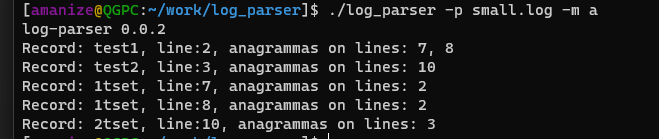
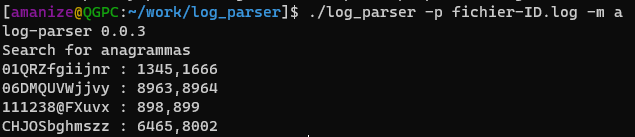
build 0.0.3

Changed region(s): [[0.0, 0.0292, 0.9874, 1.0], [0.4488, 0.9635, 0.5087, 1.0]]

diff --git a/internal/parser.go b/internal/parser.go
@@ -4,29 +4,22 @@ import (
 	"bufio"
 	"bytes"
 	"fmt"
+	"log-parser/arguments"
 	"os"
 	"sort"
+	"strings"
+
+	"golang.org/x/exp/slices"
 )
 
-type Predicate = func(templateText string, readedText string) bool
-
-// Tranformer for templates that will be added to already checked templates.
-// For example: anagrammas provides to templates for one string.
-// Source: asd, anagramma: dsa, checked templates: asd, dsa.
-type TemplateTransformer = func(templateText string) []string
-
-func parseFile(title string, path string, predicate Predicate, templateTransformer TemplateTransformer) error {
+func parseFile(mode string, path string) error {
 
 	var (
 		file           []byte
 		scannedText    []string
-		scannedRunes   [][]int
-		sortedRunes    [][]int
 		sortedText     []string
 		duplicates     []string
 		duplicateLines map[string][]int = make(map[string][]int)
-		anagrammas []string
-		anagrammasLines map[string][]int = make(map[string][]int)
 		err            error
 	)
 	if file, err = os.ReadFile(path); err != nil {
@@ -38,100 +31,64 @@ func parseFile(title string, path string, predicate Predicate, templateTransform
 		scannedText = append(scannedText, scanner.Text())
 	}
 	sortedText = make([]string, len(scannedText))
-
-	copy(sortedText, scannedText)
-
-	sort.Strings(sortedText)
-	duplicates = findAllDuplicates(sortedText)
-	for i, str := range scannedText {
-		for _, dpl := range duplicates {
-			if str == dpl {
-				duplicateLines[str] = append(duplicateLines[str], i)
-			}
-
-		}
+	if mode == arguments.Duplicates {
+		copy(sortedText, scannedText)
+		sort.Strings(sortedText)
+		duplicates = findAllDuplicates(sortedText)
+		fmt.Println("Search for duplicates")
+		duplicateLines = getDuplicateLines(scannedText, duplicates)
+		printResult(duplicateLines)
 	}
-
-	sortedBytes = make([][]int, len(scannedBytes))
-	copy(sortedBytes, scannedBytes)
-	sortInt(sortedBytes)
-	intDuplicate:=findAllDuplicates(sortedBytes)
-	fmt.Println(duplicateLines)
+	if mode == arguments.Anagrammas {
+		fmt.Println("Search for anagrammas")
+		anagrammas := findAllAnagrammas(scannedText)
+		printResult(anagrammas)
+	}
 	return nil
 }
 
-func btoi(b []byte) []int {
-	blen := len(b)
-	ints := make([]int, blen)
-	for i := 1; i < blen; i++ {
-		ints[blen-i] = int(b[i])
-	}
-	return ints
-}
-
-func itob(i []int) []byte{
-	ilen:= len(i)
-	bytes := make([]byte, ilen)
-	for b:=1; b<ilen; b++{
-		bytes[ilen-b] = byte(i[])
-	}
-
-}
-
-func sortInt(ints [][]int) {
-	for _, i := range ints {
-		sort.Ints(i)
+func printResult(result map[string][]int) {
+	for keys, group := range result {
+		if len(group) > 1 {
+			fmt.Println(keys, ":", arrayToString(group, ","))
+		}
 	}
 }
 
-func findAllDuplicates[T comparable](sortedFile []T) []T {
-	duplicates := make([]T, 0)
-	for i, srt := range sortedFile {
-		if i+1 >= len(sortedFile) {
+func getDuplicateLines(scannedText []string, duplicates []string) map[string][]int {
+	duplicateLines := make(map[string][]int)
+	for i, str := range scannedText {
+		if slices.Contains(duplicates, str) {
+			duplicateLines[str] = append(duplicateLines[str], i+1)
+		}
+	}
+	return duplicateLines
+}
+
+func findAllDuplicates(sortedText []string) []string {
+	result := make([]string, 0)
+	for i, srt := range sortedText {
+		if i+1 >= len(sortedText) {
 			break
 		}
-		if srt == sortedFile[i+1] {
-			duplicates = append(duplicates, srt)
+		if srt == sortedText[i+1] {
+			result = append(result, srt)
 		}
 	}
-	return duplicates
+	return removeDuplicate(result)
 }
 
+func findAllAnagrammas(sortedText []string) map[string][]int {
+	anagrams := make(map[string][]int)
+	for i, t := range sortedText {
+		sortedLine := sortString(t)
+		anagrams[sortedLine] = append(anagrams[sortedLine], i+1)
+	}
+	return anagrams
+}
 
-func Anagram(s string, t string) bool {
-	// initializing the variables
-	string1 := len(s)
-	string2 := len(t)
-	fmt.Println("Letter 1 =", s, "\nLetter 2 =", t)
-	fmt.Println("Is it an Anagram ?")
-	if string1 != string2 {
-	   return false
-	}
-	
-	// create and initialize a map anagramMap
-	// Using make () function
-	anagramMap := make(map[string]int)
-	
-	// As we already know that make() function
-	// always returns a map which is initialized
-	// Iterating map using for range loop
-	// Traverse the first string and increase the count of each character in the map
-	for i := 0; i < string1; i++ {
-	   anagramMap[string(s[i])]++
-	}
-	
-	// Traverse the second string and decrease the count of each character in the map
-	for i := 0; i < string2; i++ {
-	   anagramMap[string(t[i])]--
-	}
-	
-	// Traverse the first string again and if for any character the count
-	// is non-zero in the map then return false
-	for i := 0; i < string1; i++ {
-	   if anagramMap[string(s[i])] != 0 { // if this condition satisfies return false
-		  return false
-	   }
-	}
-	// In the end return true
-	return true
- }
+func sortString(str string) string {
+	s := strings.Split(str, "")
+	sort.Strings(s)
+	return strings.Join(s, "")
+}

diff --git a/internal/log_parser.go b/internal/log_parser.go
@@ -6,7 +6,7 @@ import (
 	"os"
 )
 
-const Version = "0.0.2"
+const Version = "0.0.3"
 
 func Start(args *arguments.Arguments) {
 	fmt.Println("log-parser", Version)
@@ -25,17 +25,14 @@ func Start(args *arguments.Arguments) {
 }
 
 func findDuplicates(path string) error {
-
-	if err := parseFile(duplicateMode, path, duplicatePredicate, duplicateTransformer); err != nil {
+	if err := parseFile(arguments.Duplicates, path); err != nil {
 		return fmt.Errorf("error reading file. Reason: %s", err)
-
 	}
 	return nil
 }
 
 func findAnagrammas(path string) error {
-
-	if err := parseFile(anagrammasMode, path, anagrammasPredicate, anagrammasTransformer); err != nil {
+	if err := parseFile(arguments.Anagrammas, path); err != nil {
 		return fmt.Errorf("error reading file. Reason: %s", err)
 	}
 	return nil

diff --git a/internal/tools.go b/internal/tools.go
@@ -1,14 +1,22 @@
 package internal
 
-const (
-	duplicateMode  = "duplicates"
-	anagrammasMode = "anagrammas"
+import (
+	"fmt"
+	"strings"
 )
 
-func reverseSwapRunes(s string) string {
-	chars := []rune(s)
-	for i, j := 0, len(chars)-1; i < j; i, j = i+1, j-1 {
-		chars[i], chars[j] = chars[j], chars[i]
+func removeDuplicate[T string | int](sliceList []T) []T {
+	allKeys := make(map[T]bool)
+	list := []T{}
+	for _, item := range sliceList {
+		if _, value := allKeys[item]; !value {
+			allKeys[item] = true
+			list = append(list, item)
+		}
 	}
-	return string(chars)
+	return list
+}
+
+func arrayToString(a []int, delim string) string {
+	return strings.Trim(strings.Replace(fmt.Sprint(a), " ", delim, -1), "[]")
 }

diff --git a/README.MD b/README.MD
@@ -4,6 +4,10 @@
 
 Simple log parser written on Go langugage that finds duplicates and anagrammas in logfile.
 
+### Used packages
+
+- [slices](https://pkg.go.dev/golang.org/x/exp@v0.0.0-20230725093048-515e97ebf090/slices)
+
 ## Requirements
 
 This app requires golang 1.20 to run or build.
@@ -57,20 +61,42 @@ Example output for duplicates mode:
 ![Duplicate output example](duplicate_example.png)
 
 Example output for anagrammas mode:
-![Anagrammas outour example](anagrammas_example.png)
+![Anagrammas output example](anagrammas_example.png)
+
+Example output for wrong arguments:
+![Wrong arguments output example](error_example.png)
 
 ## Overview
 
-In this realization log-parser use `bufio.Scanner` and `bufio.Scanner.Text()` to get template from file. It not fast but that is the most simple way to read file line-by-line.
-File reads like slice of bytes into memory by `os.ReadFile(path)`. That will cause great memory consumption when provided file is large. It can be replaced by `os.Open(path string)` to optimize consumption, but it slows file reading.
-For concurent finding duplicates/anagrammas app using goorutines. For more efficient concurency it can use worker pools.
+### Duplicates
 
-To impove perfomance `bufio.Scanner.Text()` can be changed to `bufio.Scanner.Bytes()`. That may exclude a lot of `string` allocations. Or find better solution to find strings in files. [Go-strings](https://pkg.go.dev/github.com/boyter/go-string#RemoveStringDuplicates) package show great perfomance in finding one location string in another.
+Search of duplicates have 5 steps:
 
-As a result:
+- read file to slice of string.
+- sort slice of strings.
+- find duplicates in sorted slice and create slice of dublicates.
+- iterate over readed file, check if duplicate contains current iteration string.
+- print result.
 
-- Pro
-  - It works.  
-- Contra
-  - Slow.
-  - Not match effective with system resources.
+- golang [slice](https://go.dev/tour/moretypes/7), short: it's like array but it is pointer to array, it is mutable, so elements can be added/deleted, and it is don't copy on assignment.
+
+Reading file is provided by `os.ReadFile(string path)`. This can cause high memory consumption when file is size is big.
+Sort slice of strings maked by [sort](https://pkg.go.dev/sort) package from standard library. Sorting provided by `sort.Strings()` function that is `sort.Sort()` under the hood. According to [documentation](https://pkg.go.dev/sort#Strings)  "...makes one call to data.Len to determine n, O(n*log(n)) calls to data.Less and O(n*log(n)*log(n)) calls to data.Swap.". It's doesn't allocate new slice.
+Find duplicates making in one slice pass, comparing `i` and `i+1` elements of slice. It's allocate new slice of duplicates.
+Iterate over readed file and finding duplicate lines may be complex in case of slices length. Great amount of elements in duplicate slice can spend a lot of time to check containig. It can be moved to worker and run in separate goroutine for each string in file. It produce map where keys is record of file and keys is slice of int with line numbers.
+Print result iterates on duplicate lines map and printing it to stdout by using `fmt.Println()`.
+
+### Anagrammas
+
+Search of duplicates have 5 steps:
+
+- read file to slice of string.
+- iterate over readed file.
+  - sort current line text.
+  - add sorted line to map with line number.
+  - if next string after sorting already in map, add line to group.
+- print result.
+
+Reading file is provided by `os.ReadFile(string path)`. This can cause high memory consumption when file is size is big.
+Sorting current line text maked by [sort](https://pkg.go.dev/sort) package from standard library. Sorting provided by `sort.Strings()` function that is `sort.Sort()` under the hood. According to [documentation](https://pkg.go.dev/sort#Strings)  "...makes one call to data.Len to determine n, O(n*log(n)) calls to data.Less and O(n*log(n)*log(n)) calls to data.Swap.". It's doesn't allocate new slice. First slice of string convert to string by `strings.Split()`, then sorting, and joinig by `strings.Join()`. `strings.Split()` and `strings.Join()` creates new strings. Creating new string is expensive operation. It can be optimized by changing string slice to bytes slice to exclude string allocation.
+Print result iterates on duplicate lines map and printing it to stdout by using `fmt.Println()`.

diff --git a/CHANGELOG.MD b/CHANGELOG.MD
@@ -1,5 +1,12 @@
 # Changelog
 
+## 0.0.3
+
+- Change
+  - simplify search of duplicates.
+- Fix
+  - search of anagramms, not palindorms.
+
 ## 0.0.2
 
 - Change
